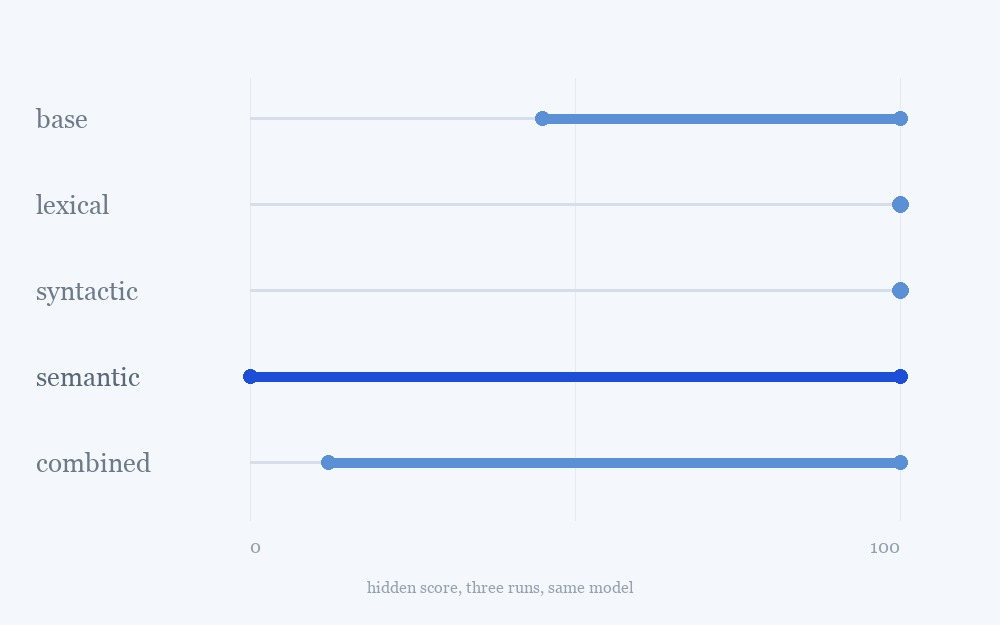
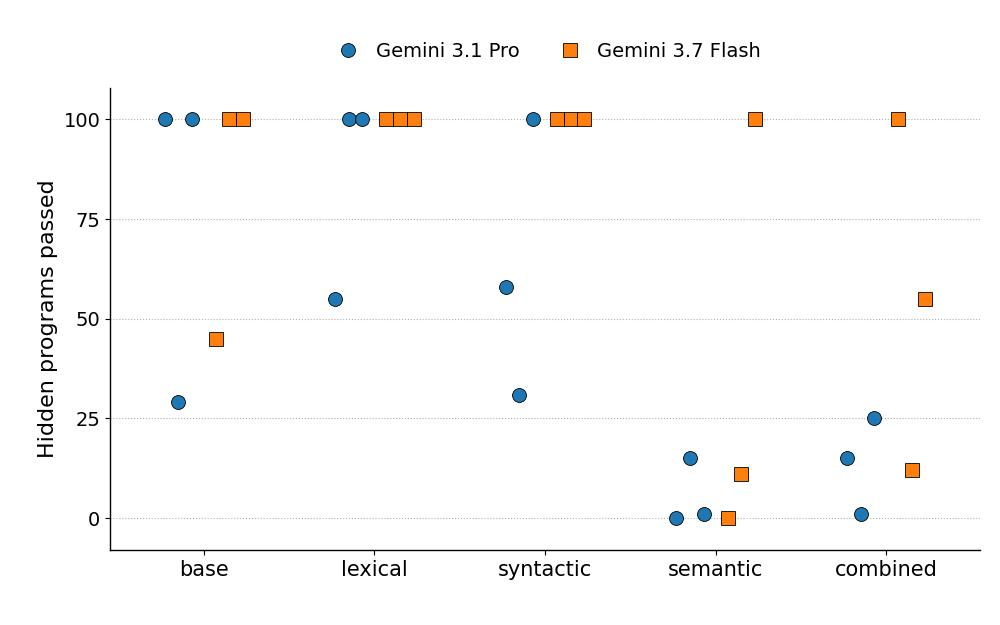
Replace the RELIC graphic with the run scores.

diff --git a/relic/index.html b/relic/index.html
@@ -161,8 +161,8 @@
                 <p>Three runs of the same model, on the same manual, with the same prompt, had a median spread of fifty points. The worst was the whole scale. Gemini 3.7 Flash, on the variant whose operators no longer mean what training says they mean, scored 0% on one run and 100% on another. A leaderboard of single agent runs at this size is a coin flip with a model name on it.</p>
 
                 <figure>
-                    <img src="/photos/projects/relic.jpg" width="1000" height="625" alt="Score ranges across three runs. Lexical and syntactic sit at 100. Semantic runs from 0 to 100.">
-                    <figcaption>Gemini 3.7 Flash. Each bar is the lowest and highest hidden score across three runs. Lexical and syntactic variants are a point at 100. The semantic variant covers the scale.</figcaption>
+                    <img src="/photos/projects/relic.jpg" width="1000" height="625" alt="Scatter plot of hidden programs passed by Gemini 3.1 Pro and Gemini 3.7 Flash. On the semantic variant, Flash scores 0, 11, and 100.">
+                    <figcaption>Each point is one run, scored on one hundred hidden programs. On the semantic variant, Gemini 3.7 Flash passes 0, 11, and 100.</figcaption>
                 </figure>
 
                 <p>What survives the repeats is narrower. For Gemini 3.1 Pro, the base language still overlaps the variants that only change spelling or grammar. The two variants that change what the operators mean sit entirely below it, between 0% and 25% where the base language ran from 29% to 100%. Flash scored 100% on every lexical and syntactic run, with no spread at all. A different comment delimiter costs it nothing. Meaning is where the runs come apart.</p>

diff --git a/projects.html b/projects.html
@@ -357,7 +357,7 @@
                 <h2 class="section-title">Other projects</h2>
                 <div class="tile-grid">
                     <article class="card tile">
-                        <div class="card-thumb"><img src="photos/projects/relic.jpg" width="1000" height="625" alt="Score ranges across three runs of one model. Lexical and syntactic sit at 100. Semantic runs from 0 to 100." loading="lazy"></div>
+                        <div class="card-thumb"><img src="photos/projects/relic.jpg" width="1000" height="625" alt="Scatter plot of hidden programs passed. On the semantic variant, Gemini 3.7 Flash scores 0, 11, and 100." loading="lazy"></div>
                         <div class="card-body">
                             <h2 class="card-title"><a href="relic/">RELIC</a></h2>
                             <p class="card-venue">2026</p>
